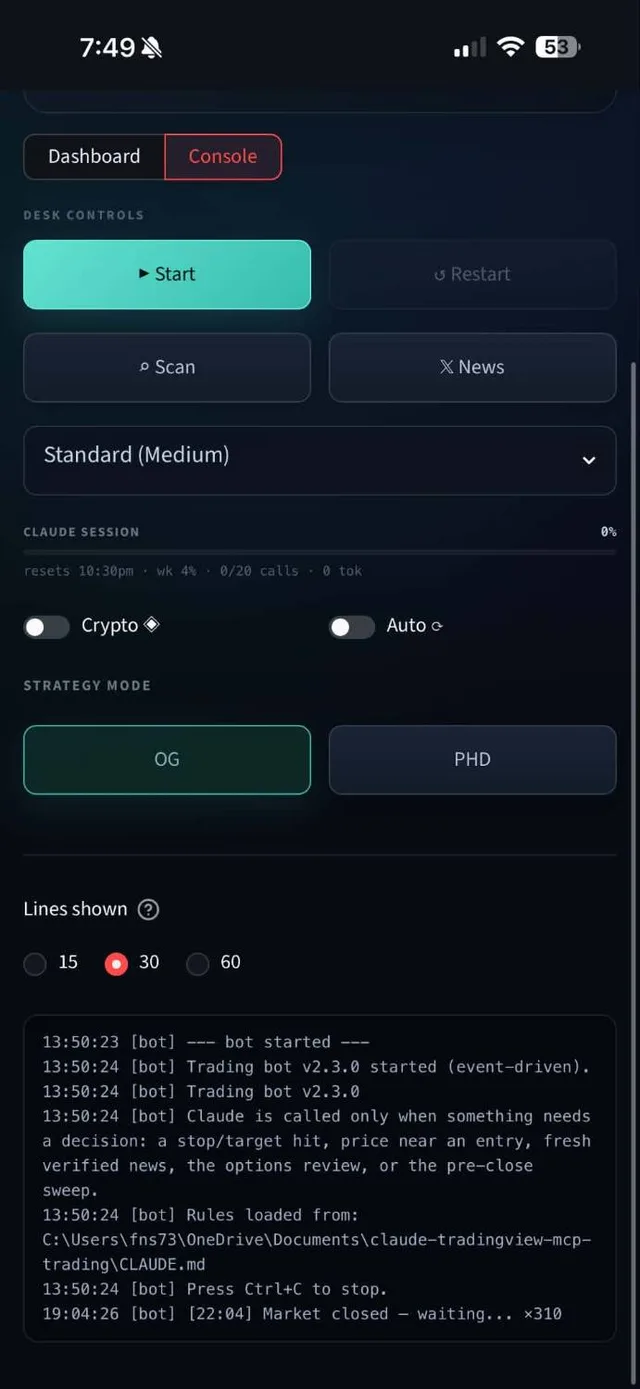
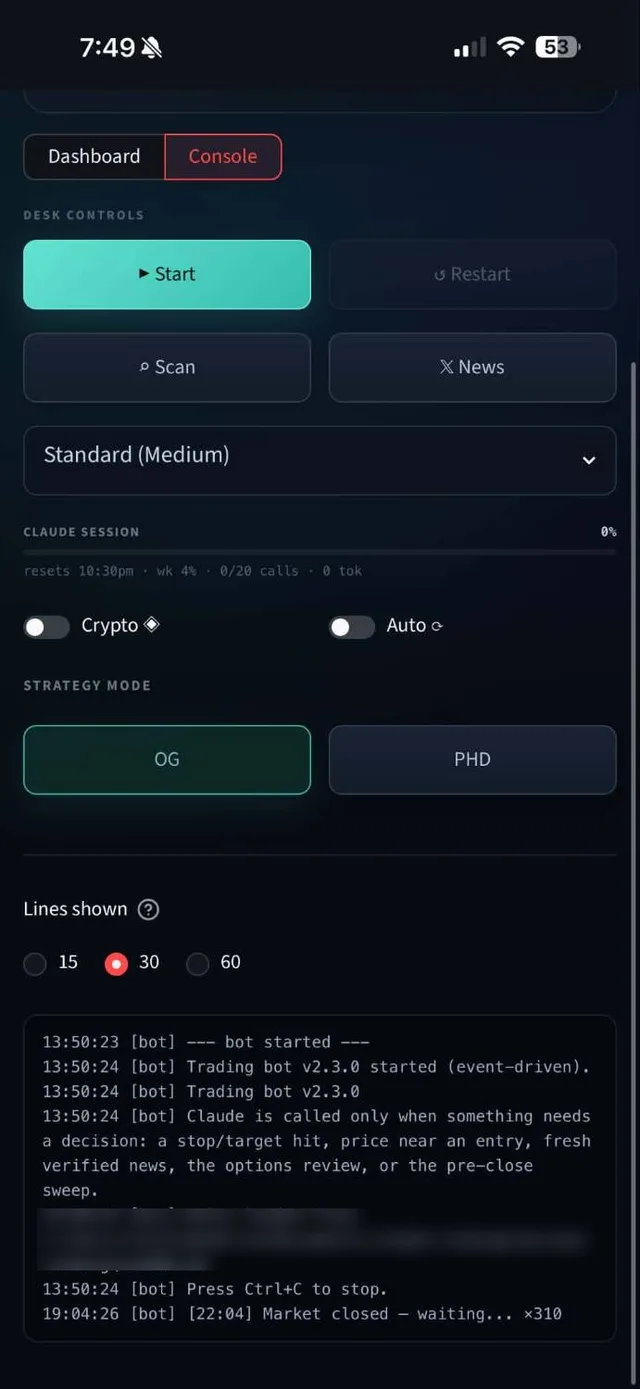
Bot Remote: blur path in console shot, make captions match screenshots

Changed region(s): [[0.0625, 0.8668, 0.5625, 0.9287], [0.6875, 0.8668, 0.9062, 0.8978], [0.5938, 0.8668, 0.6562, 0.8978]]

diff --git a/_builds/bot-remote.md b/_builds/bot-remote.md
@@ -10,19 +10,19 @@ order: 4
 shots_style: phone
 screenshots:
   - src: /assets/images/builds/bot-remote/mobile-desk-controls.webp
-    caption: Desk controls — start, restart, scan, news, plus OG / PHD strategy mode and live system status
+    caption: Desk controls — system status, Start / Restart / Scan / News, effort level, Claude session meter, and OG / PHD strategy mode
   - src: /assets/images/builds/bot-remote/mobile-performance.webp
-    caption: Performance stats and open positions with entry, stop, and targets
+    caption: Performance — win rate, average win and loss, profit factor, open P&L, and the open positions table with entry and stop
   - src: /assets/images/builds/bot-remote/mobile-live-news.webp
-    caption: Live news feed for the watchlist, pulled from Google, Yahoo, and SEC
+    caption: Live news for the watchlist tickers, from Google, Yahoo, and SEC
   - src: /assets/images/builds/bot-remote/mobile-activity-feed.webp
-    caption: Operations center — activity feed of every bot run, entry check, and exit check
+    caption: Operations center, activity feed — each bot run and exit check, timestamped
   - src: /assets/images/builds/bot-remote/mobile-run-details.webp
-    caption: Run details — expand any run to see the bot's full reasoning
+    caption: Run details — individual bot runs listed newest first, each expandable
   - src: /assets/images/builds/bot-remote/mobile-console.webp
-    caption: Live console — tail the bot's log right from your phone
+    caption: Console — the bot's live log, with a 15 / 30 / 60 line view
   - src: /assets/images/builds/bot-remote/mobile-ask-the-bot.webp
-    caption: Ask the bot — query positions, request analysis, or place a trade in plain English
+    caption: Ask the bot — a chat box for questions about positions, trades, and analysis
 ---
 
 ## The idea
@@ -35,10 +35,10 @@ being at my desk. So I built a phone-friendly control panel.
 - **Start, stop, and restart** the bot from your phone
 - Switch **strategy aggressiveness** on the fly
 - **Trigger a market scan** on demand
-- **Monitor open positions**, win rate, and P&L in real time
-- Read the **activity feed and run details** to see why the bot made each call
-- **Ask the bot** questions or request analysis in plain English from the chat tab
-- Tail the **live console** and toggle OG / PHD strategy mode and crypto/auto modes
+- **Monitor open positions**, win rate, and P&L
+- Read the **activity feed and run details** for each run the bot makes
+- **Ask the bot** about positions or request analysis from the chat tab
+- Tail the **live console** and switch OG / PHD strategy mode
 
 ## How it's built
 
